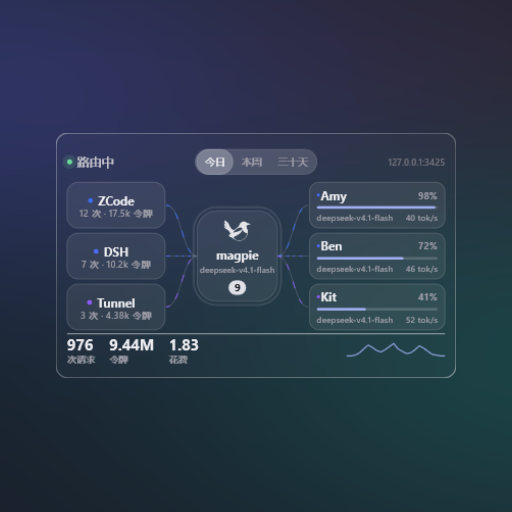
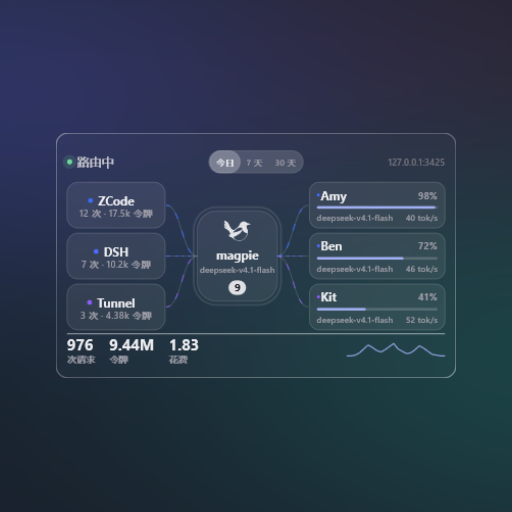
Compact period switch, immediate redraw on switch (1.0.3)

Changed region(s): [[0.375, 0.2812, 0.625, 0.3438]]

diff --git a/README.md b/README.md
@@ -12,7 +12,7 @@
 - **额度可视化**：每个账号显示剩余百分比与额度条，低于 15% 自动转琥珀色；悬停可看用量明细与重置天数。
 - **动态数据**：账号行显示该账号最近一次请求的模型、推理强度（effort）与输出速度（tok/s）。
 - **用量汇总**：底栏给出所选周期的请求数、令牌数与花费，右侧附带小时级走势。
-- **周期切换**：顶部中间的玻璃胶囊分三段——**今日 / 本周 / 三十天**，点哪段切哪段；令牌数只在底栏出现，不再重复占位。
+- **周期切换**：顶部中间的玻璃胶囊分三段——**今日 / 7 天 / 30 天**，点哪段切哪段；令牌数只在底栏出现，不再重复占位。
 - **筛选**：点击某个客户端或账号只看它，再点一次取消；右键菜单可清除筛选。
 - **紧凑模式**：把组件压到一行高度（3×1）时变成状态条：连接状态 / 近期请求数 / 周期用量。
 - **外观**：默认磨砂玻璃，可切换「实色」「透明」；跟随系统深浅色。
@@ -53,7 +53,7 @@
 | --- | --- | --- |
 | 网关地址 | `http://127.0.0.1:3425` | magpie 默认端口；改了端口时在这里改 |
 | 刷新间隔 | 3 秒 | 1–60 秒 |
-| 用量统计周期 | 今日 | 今日 / 近 7 天 / 近 30 天，也可点顶部胶囊切换 |
+| 用量统计周期 | 今日 | 今日 / 7 天 / 30 天，也可点顶部胶囊切换 |
 | 隐藏账号名 | 关 | 隐藏为 `yu…` 形式 |
 
 ## 兼容性

diff --git a/CHANGELOG.md b/CHANGELOG.md
@@ -2,6 +2,14 @@
 
 本项目遵循 [SemVer](https://semver.org/lang/zh-CN/)：补丁修问题、次版本加功能、主版本改清单结构或存储键。
 
+## 1.0.3 — 2026-11-15
+
+- 顶部切换胶囊更紧凑：高度取行高的 0.78 倍（原来 1.10），字号 0.30 倍，段内边距收紧到 0.58 倍，比例向底栏视图胶囊看齐（实测 23px vs 24px）
+- **切换卡顿修复**：点击后原先没有调用 `widget.invalidate()`，高亮要等下一帧或网络回包才更新；现在动作结束立即重绘，250ms 内可见选中段切换
+- 切换周期不再强制重拉 `quotas`（与周期无关），只请求 `/usage` 与 `/usage/requests`
+- 设置页里改周期也会立刻刷新数据和高亮
+- 标签改为 **今日 / 7 天 / 30 天**，与实际请求的 `today` / `7d` / `30d` 一致
+
 ## 1.0.2 — 2026-11-15
 
 - 创意工坊描述附上项目主页（GitHub）链接，中英文各一份
